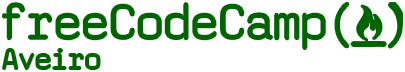
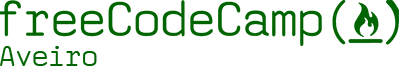
navbar and utilities update

Changed region(s): [[0.0, 0.0, 1.0, 0.697], [0.0, 0.6667, 0.2707, 1.0]]

diff --git a/src/components/NavBar/Menu.js b/src/components/NavBar/Menu.js
@@ -1,23 +1,22 @@
 import React from 'react';
 import styled from 'styled-components';
-import { useSpring, animated, config } from 'react-spring';
+import { useSpring, animated } from 'react-spring';
 
 import { gray10, darkGreen } from "../../utilities";
 
 const Menu = (props) => {
   const { x } = useSpring({
     x: props.toggle.navbarOpen ? 0 : 100,
-    config: config.default,
   });
 
   return (
-    <MenuWrapper className="checkout" style={{ pointerEvents: props.toggle.navbarOpen ? 'all' : 'none' }}>
+    <MenuWrapper style={{ pointerEvents: props.toggle.navbarOpen ? 'all' : 'none' }}>
       <CheckoutLeft style={{ transform: x.interpolate(x => `translate3d(${x * -1}%, 0, 0)`) }}>
         <LinkWrapper>
-          <li><p>Próximo Meet</p></li>
-          <li><p>Quem Somos  </p></li>
-          <li><p>Meetups</p></li>
-          <li><p>Junta-te a nós</p></li>
+          <li><h5>Próximo Meet</h5></li>
+          <li><h5>Quem Somos  </h5></li>
+          <li><h5>Meetups</h5></li>
+          <li><h5>Junta-te a nós</h5></li>
         </LinkWrapper>
       </CheckoutLeft>
       <CheckoutRight style={{ transform: x.interpolate(x => `translate3d(${x}%, 0, 0)`) }} />
@@ -51,10 +50,14 @@ const CheckoutRight = styled(animated.div)`
 
 const LinkWrapper = styled.ul`
   margin-top: 50%;
+  margin-left: 25px;
 
   & li {
     list-style-type: none;
-    line-height: 1;
     color: ${darkGreen};
+
+    & h5 {
+      line-height: 15px;
+    }
   }
 `;

diff --git a/src/App.js b/src/App.js
@@ -2,8 +2,6 @@ import React, { Component } from 'react';
 import styled, { ThemeProvider } from 'styled-components/macro';
 import GlobalStyle from './Global';
 
-import './styles.css';
-
 import NavBar from './components/NavBar/NavBar';
 import StyleSwitch from "./elements/StyleSwitch";
 
@@ -38,7 +36,7 @@ class App extends Component {
   render() {
     return (
       <>
-      <ThemeProvider theme={this.state.darkmode ? themeDark : themeLight}>
+      <ThemeProvider theme={ this.state.darkmode ? themeDark : themeLight }>
         <Wrapper>
           <NavBar />
         </Wrapper>
@@ -55,5 +53,8 @@ class App extends Component {
 export default App;
 
 const Wrapper = styled.div`
-  background-color: ${ props => props.theme.colors.primary};
+  background-color: ${props => props.theme.colors.primary};
+  width: 100vw;
+  height: 100vh;
+  transition: 0.3s ease all;
 `;

diff --git a/src/Global.js b/src/Global.js
@@ -1,8 +1,16 @@
 import { createGlobalStyle } from 'styled-components';
 
-import { proportional } from "./utilities";
+import { custom } from "./utilities"
 
 const GlobalStyle = createGlobalStyle`
+
+  /* Custom Font */
+  @import url("https://fonts.googleapis.com/css?family=Poppins:400,500,600,700,800,900");
+  
+  /* FCC Gydeline Fonts */
+  @import url('https://fonts.googleapis.com/css?family=Roboto+Mono&display=swap');
+  @import url('https://fonts.googleapis.com/css?family=Roboto+Mono&display=swap');
+  
   html {
     box-sizing: border-box;
   }
@@ -12,8 +20,13 @@ const GlobalStyle = createGlobalStyle`
   }
 
   body {
-    ${proportional};
+    margin: 0;
+    padding: 0;
+    ${custom};
     overflow-x: hidden;
+    overflow-y: hidden;
+    -webkit-font-smoothing: antialiased;
+    -moz-osx-font-smoothing: grayscale;
   }
 `;
 

diff --git a/src/elements/StyleSwitch.js b/src/elements/StyleSwitch.js
@@ -5,7 +5,7 @@ import "./StyleSwitch.css"
 const StyleSwitch = (props) => {
   return(
     <div className={ props.icon ? "bulb off" : "bulb" }>
-      <svg width="32px" height="30px" viewbox="0 0 32 30">
+      <svg width="32px" height="30px" viewBox="0 0 32 30">
         <path d="M11.8037382,22 C10.7546727,20.5 9.59626432,18.5830845 9.1810745,17 C8.13200903,13 11.8037382,9 16,9 C20.1962618,9 23.867991,13 22.8189255,17 C22.147873,19.5586678 20.6802136,21.077366 20.1962618,22"></path>
         <path d="M13,25 L19,25 L19,26 C19,27.6568542 17.6568542,29 16,29 L16,29 C14.3431458,29 13,27.6568542 13,26 L13,25 Z"></path>
         <path className="light" d="M4,15 L1,15"></path>

diff --git a/src/utilities/Typography.js b/src/utilities/Typography.js
@@ -5,3 +5,7 @@ export const monospace = `
 export const proportional = `
   font-family: 'Roboto Mono', monospace;
 `;
+
+export const custom = `
+  font-family: "Poppins", sans-serif;
+`;

diff --git a/src/components/NavBar/LogoGreen.js b/src/components/NavBar/LogoGreen.js
@@ -12,7 +12,7 @@ export default function Logo() {
 }
 
 const StyledLogo = styled.img`
-  height: 35px;
+  height: 30px;
   align-self: center;
   z-index: 15;
 `;

diff --git a/src/components/NavBar/OpenIcon.js b/src/components/NavBar/OpenIcon.js
@@ -45,8 +45,4 @@ const StyledIcon = styled.div`
   & span:after {
     bottom: -10px;
   }
-
-  @media all and (max-width: 768px) {
-    display: inline;
-  }
 `;

diff --git a/src/components/NavBar/Logo.js b/src/components/NavBar/Logo.js
@@ -12,6 +12,6 @@ export default function Logo() {
 }
 
 const StyledLogo = styled.img`
-  height: 35px;
+  height: 30px;
   align-self: center;
 `;
